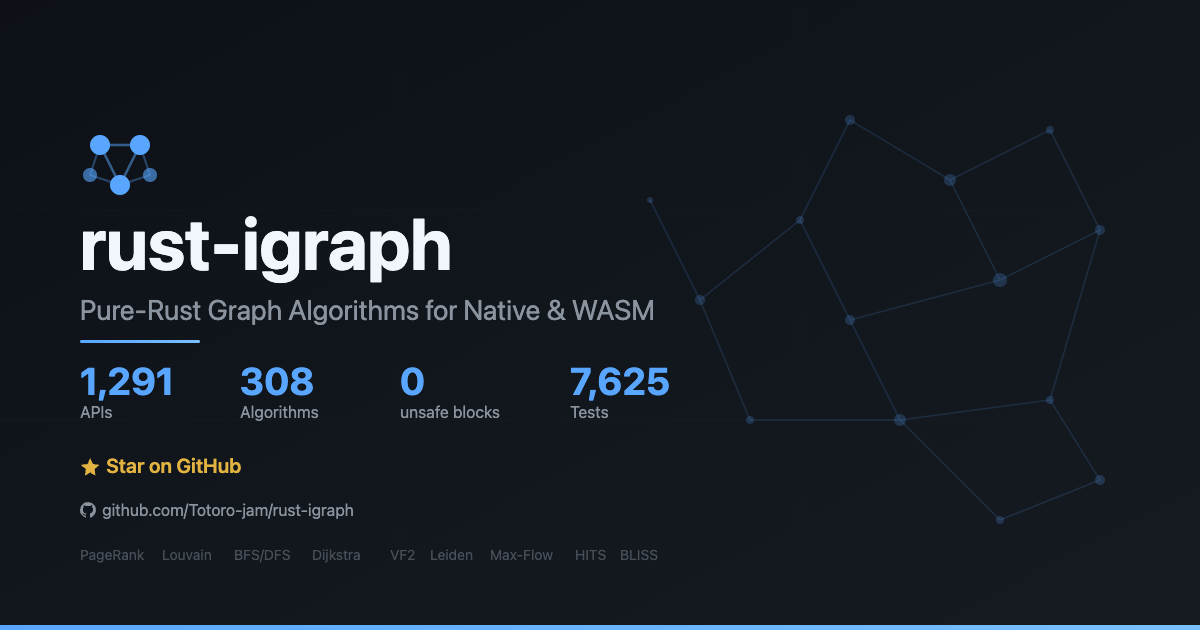
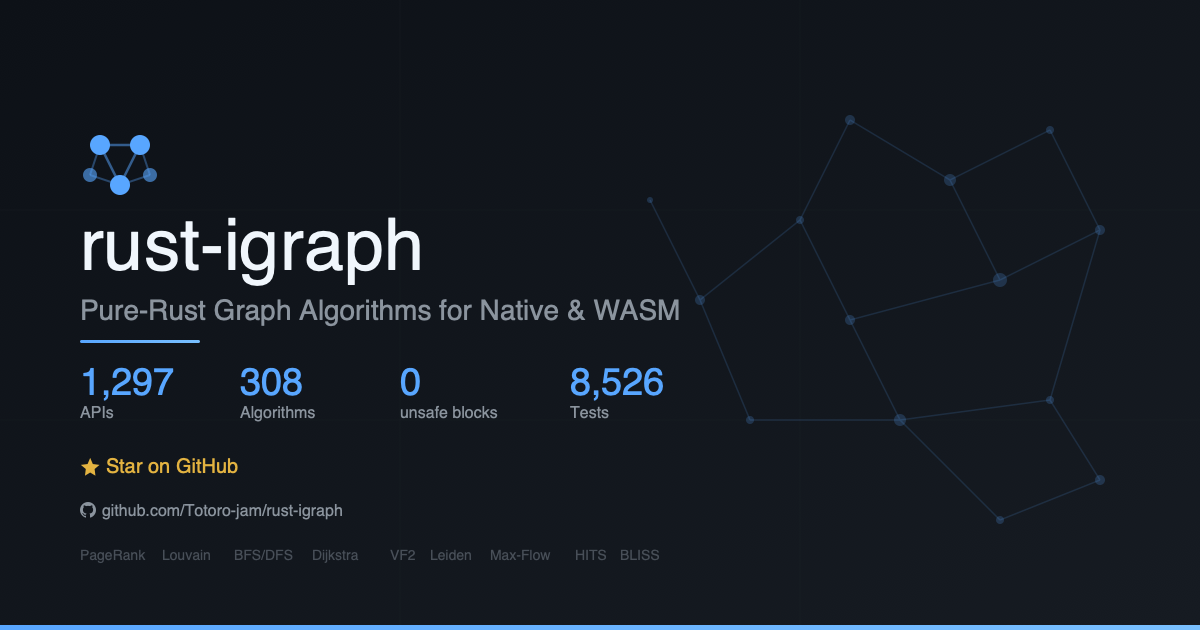
docs: update test count to 8,526 across all docs
Rust all-features: 8,385 + playground: 141 = 8,526 total tests.

diff --git a/website/index.html b/website/index.html
@@ -86,7 +86,7 @@
     <div class="numbers-inner">
       <div class="stat"><span class="stat-num">1,297</span><span class="stat-label" data-i18n="stats.apis">Public APIs</span></div>
       <div class="stat"><span class="stat-num">308</span><span class="stat-label" data-i18n="stats.algos">Algorithms</span></div>
-      <div class="stat"><span class="stat-num">8,494</span><span class="stat-label" data-i18n="stats.tests">Tests</span></div>
+      <div class="stat"><span class="stat-num">8,526</span><span class="stat-label" data-i18n="stats.tests">Tests</span></div>
       <div class="stat"><span class="stat-num">0</span><span class="stat-label" data-i18n="stats.unsafe">unsafe blocks</span></div>
       <div class="stat"><span class="stat-num">1</span><span class="stat-label" data-i18n="stats.deps">Dependency</span></div>
     </div>

diff --git a/CHANGELOG.md b/CHANGELOG.md
@@ -33,8 +33,8 @@ versioning follows [Semantic Versioning 2.0](https://semver.org/spec/v2.0.0.html
   decomposition, eccentricity, Burt's constraint, diameter, shortest
   path, and random walk. Enriched graph statistics with density, radius,
   mean distance, mean degree, assortativity, and reciprocity badges.
-- **Playground test suite expanded** — 109 tests (was 98), covering
-  all 4 new algorithm demo functions and dispatch.
+- **Playground test suite expanded** — 141 tests (was 98), covering
+  all 41 algorithm demo functions and dispatch.
 - **Chinese cookbook** — full translation of all 13 English cookbook
   recipes (was a stub).
 - **Chinese WASM tutorial** — isomorphism API section, triad census,
@@ -52,7 +52,7 @@ versioning follows [Semantic Versioning 2.0](https://semver.org/spec/v2.0.0.html
   O(n) orbit-based generator collection; flat buffer in refinement loop
   eliminates per-vertex heap allocations. K_8 canonicalization: 79ms → 55ms
   (30% faster), C_30 automorphisms: 1.7ms → 1.0ms (41% faster).
-- Test count updated across all docs: 8,386 → 8,494.
+- Test count updated across all docs: 8,386 → 8,526.
 - Example count updated across all docs: 115 → 116.
 - Landing page stats synced to current values (8,494 tests).
 

diff --git a/book/src/introduction.md b/book/src/introduction.md
@@ -9,7 +9,7 @@ functions), validated continuously against three official implementations:
 - **R-igraph** (`rigraph`) — `tests/testthat/test-*.R`
 
 > **Status**: 308 algorithm work units complete across Phases 1–7 and 9.
-> 1,297 public APIs, 8,494 tests
+> 1,297 public APIs, 8,526 tests
 > (unit + integration + doctest + proptest). WASM-compatible (`wasm32-unknown-unknown`). See
 > [the master plan](https://github.com/Totoro-jam/rust-igraph/blob/main/docs/plans/MASTER_PLAN.md) for the roadmap, and
 > [the algorithm tracker](https://github.com/Totoro-jam/rust-igraph/blob/main/.codefuse/tracking/ALGORITHMS.md) for
